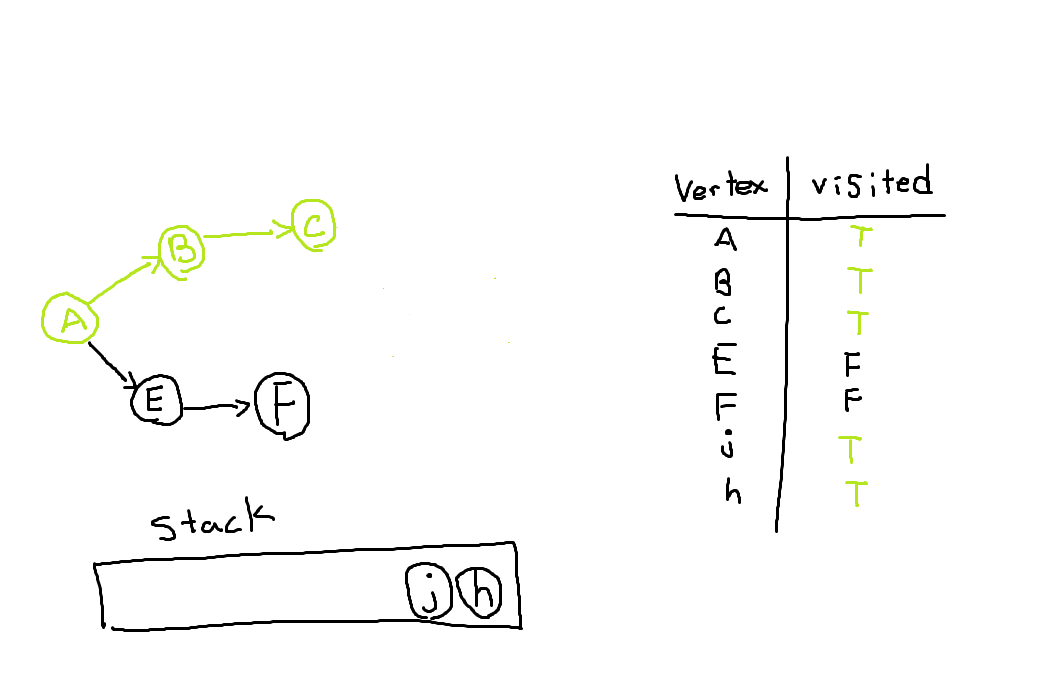
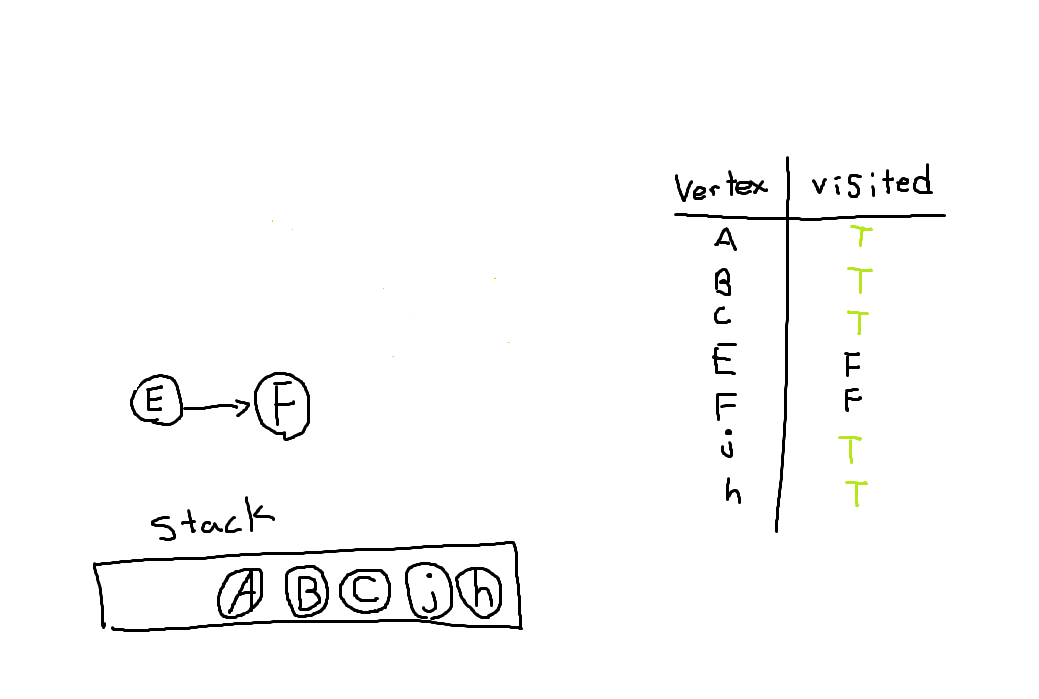
fixing topological sort, more fixes needed at home

diff --git a/templates/blogs/Algorithms/graph/topological_sorting.html b/templates/blogs/Algorithms/graph/topological_sorting.html
@@ -54,7 +54,6 @@
     <p>By definition topological sort is linear ordering of vertices such that for every directed edge (u,v),
         vertex u must come before v in the ordering.
     </p>
-    <p>It is simply ordering of vertices so that edges point from lower order to higher order.</p>
     <p>One simple analogy is taking courses in University. Most courses have pre-requisites therefore
         you must satisfy all pre-requisites before taking more advanced course. Topological sort would
         be used for ordering courses so that pre-requisites would be met. 
@@ -94,79 +93,24 @@
     <p><b>5.</b> Since H do not have any out-going edge insert into stack.</p>
     <img src="../photos/top_sort_5.png" alt="">
     <p>Now j has no out-going edge so insert it to stack
-        <img src="../photos/top_sort_6.png" alt="">
     </p>
+    <img src="../photos/top_sort_6.png" alt="">
     <p>Keep moving backwards and insert into stack accordingly thus left with vertex E and F.</p>
-    <p><b>6.</b> Repeating steps above we now start with vertex E(lower in-degree) giving us</p>
+    <p><b>6.</b> Repeating steps on remaining graph.</p>
+    <img src="../photos/top_sort_7.png" alt="">
+    <p><b>1.</b> Vertex E has 0 in-degree and F has 1 in-degree. Start from vertex E, mark it visited and move on.
+    Since F is last vertex with no out going edge stop there and move backwards inserting F then E into the stack.</p>
+    <img src="../photos/top_sort_8.png" alt="">
+    <p>We are done ordering vertices. Since it is in stack data structure we need to </p>
+
     <h5 id="2">Python Implementation</h5>
     
-    <h5 id="3">Graph representation</h5>
-    <p>Finally we are done with terminologies lets see how to represent graph data structures.</p>
-
-    <b id="3-1">Adjacency list</b>
-    <p>
-        For each vertex it has a list associated with it where elements represent vertex that it 
-        points to. In Python dictionary of lists are used to represent this, each key is a vertex and 
-        value is list of vertices that key(vertex) is pointing to (directly).
-    </p>
-    <pre>
-    adj_list = {
-        1: [2, 4],
-        2: [5],
-        3: [6,5],
-        4: [2],
-        5: [4],
-        6: [6]
-    }
-    </pre>
-    <p>Code above represent below picture.</p>
-    <p>Looking at vertex 1, we can see there are two edges going out to vertex 2 and 4 thus adj_list[1] = [2,4]</p>
-    <p>In undirected graph since vertex 1 contains [2,4] vertex 2 and 4 will contain 1 thus adj_list[2] = [1,4,5] and 
-        adj_list[4] = [1, 2, 5]. Note that order of vertex do not matter, adj_list[4] = [2,1,5] is okay as well.
-    </p>
-    <p>As graph becomes dense, number of edges increase approaching |E| = |V^2| using adjacency list becomes slow
-        since it require twice more space for edges going back and forth. For example if vertex 1 is connected to
-        all 2, 3, 4, 5, 6 then we require twice more space since we need to create list for 2 going to 1, 3 going to 1,
-        and so on...
-    </p>
-    <img src="../photos/graph_ds_6.png" alt="">
-    <p> For weighted graph using adjacency list take up one extra place for storing weight of edges.
-        If edge connecting A -> B has weight of 7, store it beside the vertex <pre>{A: [[B,7], [C, weight]]}</pre>
-    </p>
-    <p>Taking up extra space for weights.</p>
-    <br>
-
-    <b id="3-2">Adjacency matrix</b>
-    <p>As graph become dense it is more efficient to use adjacency matrix.</p>
-    <p>Below matrix represents graph in above example. Vertical axis represents vertex and horizontal
-        axis represents vertices that vertical axis' vertex points to.
-    </p>
-    <p>Vertex 1 points to 2 and 4 thus in adjacency matrix adj_matrix[1][2] = 1 and adj_matrix[1][4] = 1. All
-        other columns are set to 0 since vertex 1 do not point to them.
-    </p>
-    <p>Looking at vertex 2, it only points to vertex 5 therefore adj_matrix[2][5] = 1 and all other are 0.</p>
-
-    <p>It is very straight forward and you can see that no matter it is directed or undirected graph its space
-        complexity will always be V^2. 
-    </p>
-    <p> So for dense graphs adjacency matrix is more suitable and more sparse matrix using adjacency list would 
-        be suitable.
-    </p>
-    <img src="../photos/graph_ds_7.png" alt="">
-    <p>For weighted graphs replace 1 with appropriate weights</p>
-    <br><br>
 
 
     <div id='reference' class="references">
         <h5>References:</h5>
         <ul>
-            <li><a href="https://en.wikipedia.org/wiki/Graph_theory">History of graph theory</a></li>
-            <li><a href="https://en.wikipedia.org/wiki/Seven_Bridges_of_K%C3%B6nigsberg">Konigsberg bridge problem</a></li>
-            <li><a href="https://www.geeksforgeeks.org/graph-and-its-representations/">Graph representation</a></li>
-            <li><a href="https://www.youtube.com/watch?v=HDUzBEG1GlA">Graph representation + python implementation</a></li>
-            <li><a href="https://www.youtube.com/watch?v=VSgI2cr-f28&list=PL9mhQYIlKEhdvKFh-wVpDuihNQv6C1gSy&index=13">Graph representation (In korean)</a></li>
-            <li><a href="https://www.youtube.com/watch?v=G86PQ1OeNqg&list=PL9mhQYIlKEhdvKFh-wVpDuihNQv6C1gSy&index=13&t=0s">Terminologies (In korean)</a></li>
-            <li><a href="https://www.programiz.com/dsa/graph-adjacency-list">Adjacency list</a></li>
+
         </ul>
 
     </div>
